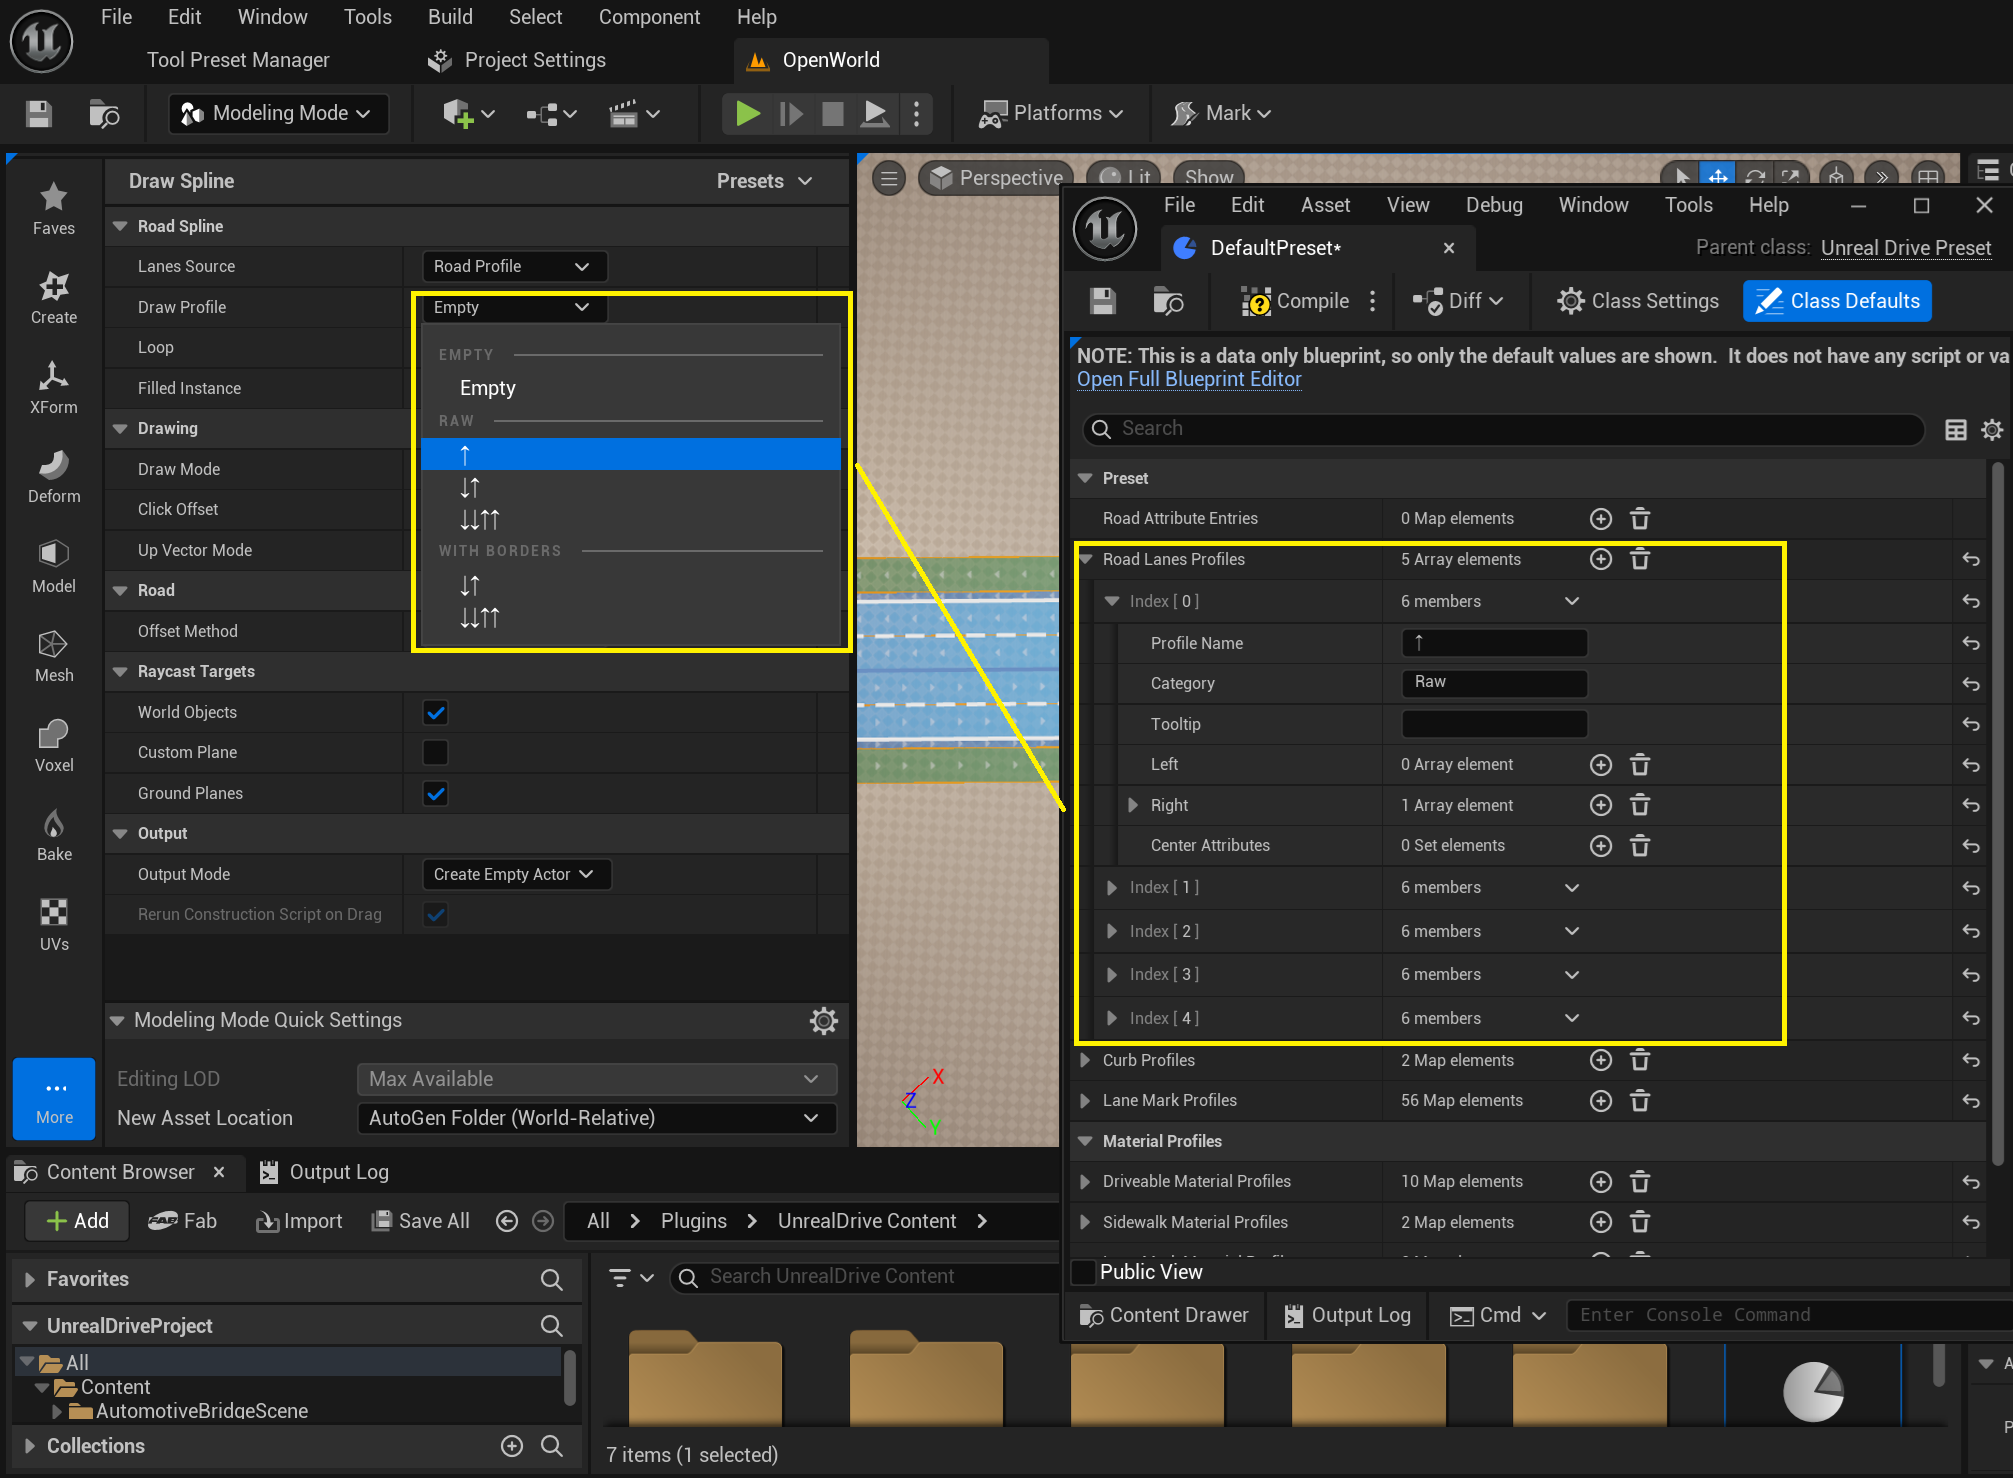
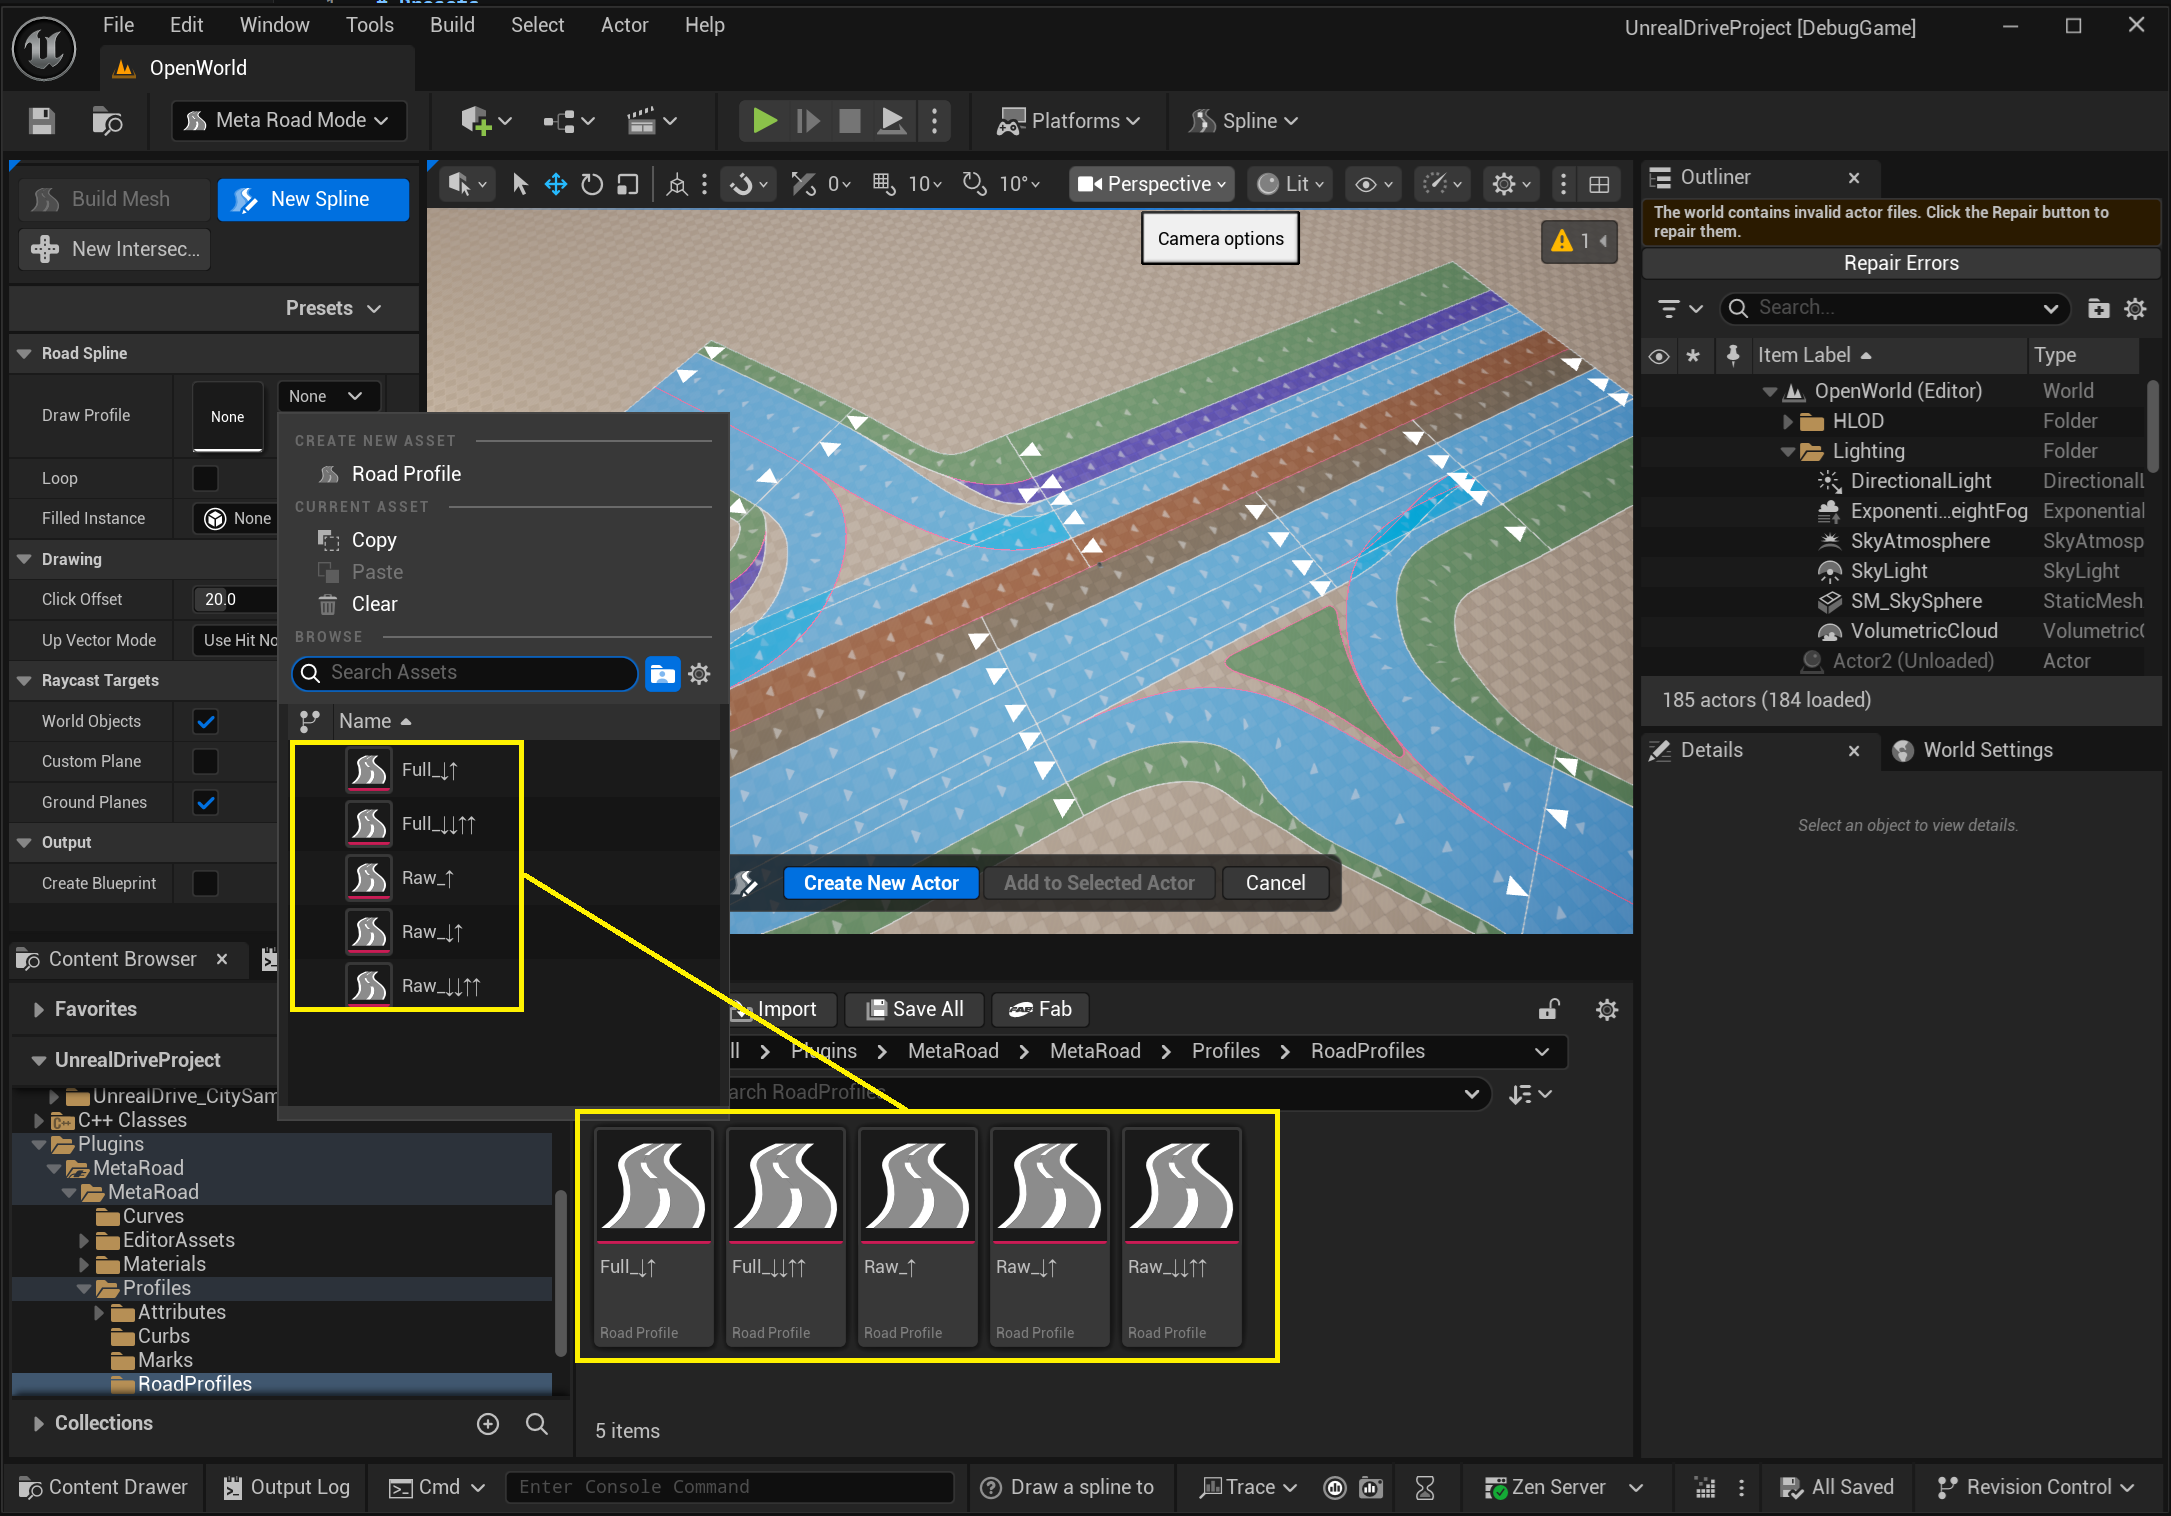
v2.1.0

diff --git a/docs/source/conf.py b/docs/source/conf.py
@@ -3,11 +3,11 @@
 # -- Project information
 
 project = 'MetaRoad'
-copyright = '2025, Ivan Zhukov'
+copyright = '2026, Ivan Zhukov'
 author = 'Ivan Zhukov'
 
-release = '2.0'
-version = '2.0.0'
+release = '2.1'
+version = '2.1.0'
 
 # -- General configuration
 

diff --git a/docs/source/Presets.md b/docs/source/Presets.md
@@ -1,73 +1,53 @@
 # Presets
-
-**MetaRoadPreset** - a asset that allows you to store and use various user presets, such as:
-  - Profiles for all procedurally generated objects (Road Surface, Sidewalk, markings, curbs, etc.)
-  - The road lane attributes
-  - Road profiles for drawing (number and types of lanes) 
-
-There can be many presets in a project, but logically they are all combined into one. Therefore, you need to be careful with the names of profiles in presets, because if two or more presets contain profiles with the same name, only one will be used at random.  
-To create a new preset, simply create a new **Meta Road Preset** asset in the **Content Browser**:  
+MetaRoad offers the ability to create various "presets" of road elements and road logic.  
+Each "preset" is an UnrealEngine asset that you can add in the **Content Browser** window under the **Meta Road** category:  
 ![alt text](img/create-preset.png)  
 
-The MetaRoad plugin already has a default preset at **/MetaRoad/DefaultPreset**. It should not be changed for backward compatibility, but there may be cases when it is necessary (for example, to change left-hand traffic to right-hand traffic):  
+The MetaRoad already has a default presets at **/MetaRoad/DefaultPreset**. It should not be changed for backward compatibility:  
 ![alt text](img/default-preset.png)  
 
-## Driveable Material Profiles
-Contains material profiles for **Road Lane** type **RoadLaneDriving**. You can specify the material and decals for driveable road lanes. These profiles are available in [Build Mesh Modeling Tool](ProcedureGenerationTool.md):  
-![alt text](img/preset-driveable.png)
+## Road Profile
+Contains road drawing profile using in [New Spline Tool](DrawSplineTool.md#lane-source):  
+![alt text](img/preset-lanes.png)  
 
-## Sidewalk Material Profiles
-Contains material profiles for **Road Lane** type **RoadLaneSidewalk**. You can specify the material for sidewalk road lanes. These profiles will be available in [Build Mesh Modeling Tool](ProcedureGenerationTool.md):  
-![alt text](img/preset-sidewolk.png)
-
-## Curb Profiles
+## Curb Profile
 Contains curb type profiles for **Road Lane** type **RoadLaneSidewalk**. You can set the curb material and geometry. These profiles are available in [Build Mesh Modeling Tool](ProcedureGenerationTool.md):  
 ![alt text](img/preset-curb.png)
 
-## Lane Mark Profiles
+## Mark Profile
 Contains profiles of road marking types for **Road Lane** type **RoadLaneDriving**. You can specify the type (solid, dashed, double), dimensions, and color of the marking strip. These profiles are available in [Road Mark Attribute](EditorModes.md#road-mark-attribute):   
 ![alt text](img/preset-mark.png)  
 
-## Road Lanes Material Profiles
-Contains road marking material profiles for **Road Lane** type **RoadLaneDriving**. You can specify the Road Marks material. These profiles will be available in [Build Mesh Modeling Tool](ProcedureGenerationTool.md):  
-![alt text](img/preset-mark-mat.png)  
-
-## Road Lanes Profiles
-Contains road section profiles for drawing in **Draw/Add Spline** [Build Mesh Modeling Tool](DrawTool.md#lane-source) -> **Road Profile**:  
-![alt text](img/preset-lanes.png)  
-
-## Road Attribute Entries
+## Attribute Profile
 **Road Attribute Entry** is a helper constructor object that allows you to quickly create presets for [Lane Attribute](RoadModel.md#lane-attributes) and add them to Road Lane. All **Road Attribute Entries** from all presets are automatically available in [Road Attribute Editor Mode](EditorModes.md#attribute-modes):  
 ![alt text](img/preset-attributes.png)   
-
-There are 3 main types of **Road Attribute Entries** (Component Template, Spline Mesh, Custom Builder):  
+Below is how to add attributes to a **Road Lane**:  
+![alt text](img/entry-spline2.gif)  
+After selecting the option to create an **Attribute Profile**, you will be asked to select the base class of the **Attribute Profile**.  
 ![alt text](img/entry-type.png)  
+There are 4 main types of **Attribute Profiles**:  
+  - Curve Attribute
+  - Spline Mesh Attribute
+  - Component Template Attribute
+  - Actor Template Attribute
 
-### Component Template
-Allows to generate arbitrary **USceneComponent** along **Road Lane** at a specified interval during the [Build Mesh](ProcedureGenerationTool.md) process.  
-Simply create a BP or C++ class inherited from **USceneComponent**:  
-![alt text](img/entry-component.png)  
-
-Then, in **Road Attribute Entry**, specify the created class in ```Component Template``` and set ```LengthOfSegment```. After that, the created preset will be available in the [Lane Attribute](RoadModel.md#lane-attributes):  
-![alt text](img/entry-component2.png)  
-
-And now it can be added to **Road Lane**:  
-![alt text](img/entry-component4.gif)  
-
-This template is convenient to use for repeating objects along **Road Lane**, such as traffic cones, flagpoles, lampposts, and power lines.
+### Curve
+This is the base class for all attributes that generate objects along a road lane. It doesn't generate anything itself, but provides the **GenerateAssert()** method, which must be overridden in BP or C++:  
+![alt text](img/entry-custom.png)  
+Example of such an asset at: */MetaRoad/MetaRoad/Profiles/Attributes/CustomSample*.
 
 ### Spline Mesh
-Allows to generate **USplineMeshComponent** along **Road Lane** during the [Build Mesh](ProcedureGenerationTool.md) process.
-To do this, specify the desired ```Static Mesh``` in **Road Attribute Entry** and set ```LengthOfSegment```, after which the created preset will be available in the [Lane Attribute](RoadModel.md#lane-attributes):  
+Allows to generate **USplineMeshComponent** from ```Static Mesh``` along **Road Lane** at ```LengthOfSegment``` interval. 
 ![alt text](img/entry-spline.png)  
+Example of such an asset at: */MetaRoad/MetaRoad/Profiles/Attributes/SplineMeshSample*.
 
-And now it can be added to **Road Lane**:  
-![alt text](img/entry-spline2.gif)  
+### Component Template
+Allows to generate arbitrary **USceneComponent** from ```Component Template``` along **Road Lane** at ```LengthOfSegment``` interval. 
+![alt text](img/entry-component.png)  
+Example of such an asset at: */MetaRoad/MetaRoad/Profiles/Attributes/ComponentSample*.  
+This template is convenient to use for repeating objects along **Road Lane**, such as traffic cones, flagpoles, lampposts, and power lines.
 
-### Custom Builder
-Provides the ability to write a custom attribute handler in C++ or BP during the [Build Mesh](ProcedureGenerationTool.md) process. 
-To do this, need to create a class inherited from **UCustomSplineBuilder** and override the **Generate Asset** function:  
-![alt text](img/entry-custom.png)  
-
-After that, you need to specify the created class in the preset, and it will become available in [Lane Attribute](RoadModel.md#lane-attributes):  
-![alt text](img/entry-custom2.png)  
+### Actor Template
+Allows to generate arbitrary **AActor** from ```Actor``` along **Road Lane** at ```LengthOfSegment``` interval. 
+![alt text](img/entry-actor.png)  
+Example of such an asset at: */MetaRoad/MetaRoad/Profiles/Attributes/ActorSample*. 

diff --git a/docs/source/SplineEditorModes.md b/docs/source/SplineEditorModes.md
@@ -56,7 +56,7 @@ These mode allow to add various **Road Attributes** to **Road Lane**, which can 
 
 
 By default, two types of attributes are available: speed limit and road markings. 
-To learn how to create new attribute types, see [Road Attribute Entries](Presets.md#road-attribute-entries).
+To learn how to create new attribute types, see [Attribute Profile](Presets.md#attribute-profile).
 To add a new attribute for a lane, select the appropriate mode in the **Road Editing Modes** menu, select the required **Road Lane**, and select **Create ATTRIBUTE_NAME** from the context menu. Then, add the required **Attribute Keys** from the same context menu:  
 ![alt text](img/attribute-add.gif)  
 
@@ -64,10 +64,10 @@ In the **Details Panel**, in the **Selection** group, you can edit the selected 
 ![alt text](img/attribute-selection.png)  
 
 ### Road Mark Attribute
-**Road Mark Attribute** is one of the [Road Attributes](RoadModel.md#lane-attributes) types that is available "out of the box" and allows you to add a **Mark** attribute to **Road Lane**, which is used in [Procedural Generation](ProcedureGenerationTool.md) to generate road markings. Each **Attribute Key** is assigned a road marking type, which can be selected in ```Profile Name```. Or you can create a new type on the spot (```Profile Name -> Use Custom```):  
+**Road Mark Attribute** is one of the [Road Attributes](RoadModel.md#lane-attributes) types that is available "out of the box" and allows you to add a **Mark** attribute to **Road Lane**, which is used in [Procedural Generation](ProcedureGenerationTool.md) to generate road markings. Each **Attribute Key** is assigned a road marking type, which can be selected in ```Profile```. Or you can create a new type on the spot (```Profile Source -> Use Custom```):  
 ![alt text](img/mark.png)  
 
-If you need to remove markings for any of the sections on **Road Lane**, set ```Profile Name``` to ```None```:  
+If you need to remove markings for any of the sections on **Road Lane**, set ```Profile``` to ```empty```:  
 ![alt text](img/mark-none.png)  
 
-To add new road marking profiles, see [Lane Mark Profiles](Presets.md#lane-mark-profiles).
+To add new road marking profiles, see [Lane Mark Profiles](Presets.md#mark-profile).

diff --git a/docs/source/ProcedureGenerationTool.md b/docs/source/ProcedureGenerationTool.md
@@ -23,12 +23,19 @@ The **Build Mesh Tool** separately generates assets for:
 For each of these asset types, there is a corresponding group of parameters in the **Build Mesh Tool**:  
 ![alt text](img/gen-params.png)  
 
-### Mesh Materials
-For each type of generated asset (Drive Surface, Sidewalks, Curbs, etc.), there is a ```Materials``` parameter. It allows you to replace materials from [Preset Profiles](Presets.md) set in **Road Lanes**:  
-![alt text](img/gen-materials.png)  
-
-Why was this necessary, instead of simply defining all the necessary materials in **Preset Profiles**?
-In practice, **Preset Profiles** usually define profile “domains,” such as **Tram**, and set a default material for them. And in the **Build Mesh Tool**, it is convenient to override the default material if necessary. This approach is more flexible and allows you to quickly switch between sets of materials for the same road, even those obtained from different sources. But there is nothing to prevent you from creating several **Tram** profiles in **Preset Profiles** (e.g., **Tram-1**, **Tram-new**, **Tram-old**) and assigning the appropriate profiles to **Road Lanes**.
+### Mesh Lane Materials
+All road lanes have a ```Lane Type```:  
+![alt text](img/lane-type.png)  
+You can add new ```Lane Type``` in the **Project Settings**. Each ```Lane Type``` also has a ```Default Material```:
+![alt text](img/lane-type-material.png)  
+For a selected road lane, you can override the default lane material:
+![alt text](img/lane-type-material-override.png)  
+You can also override the default ```Lane Type``` material from the  **Build Mesh Tool** settings:  
+![alt text](img/lane-type-material-override2.png)  
+Thus, the priority of determining the road lane material is as follows:  
+  -> Default material from ```Lane Type``` description  
+  -> Override materials from the **Build Mesh Tool**  
+  -> Override materials from the selected road lane menu 
 
 ### Mesh UVs
 Procedural generation for Road Surface generates two levels of texture coordinates:  

diff --git a/docs/source/DrawSplineTool.md b/docs/source/DrawSplineTool.md
@@ -9,7 +9,7 @@ The drawing mode is determined automatically based on where you start drawing th
 If you start drawing a spline from any point other than the **Lane Successor Connection**, the **Drawing from Profile** mode will be selected. 
 In this mode, you can select a profile from the **Draw Profile** drop-down menu:  
 ![alt text](img/draw-spline-profile.gif)  
-A new road profile can be added in [presets](Presets.md#road-lanes-profiles).  
+A new road profile can be added in [presets](Presets.md#road-profile).  
 
 ## Drawing from Lane Successor Connection
 If you start drawing a spline with the [Lane Successor Connection](RoadModel.md#intersections-and-junctions), the **Drawing Lane Successor Connection** mode will be selected. 
